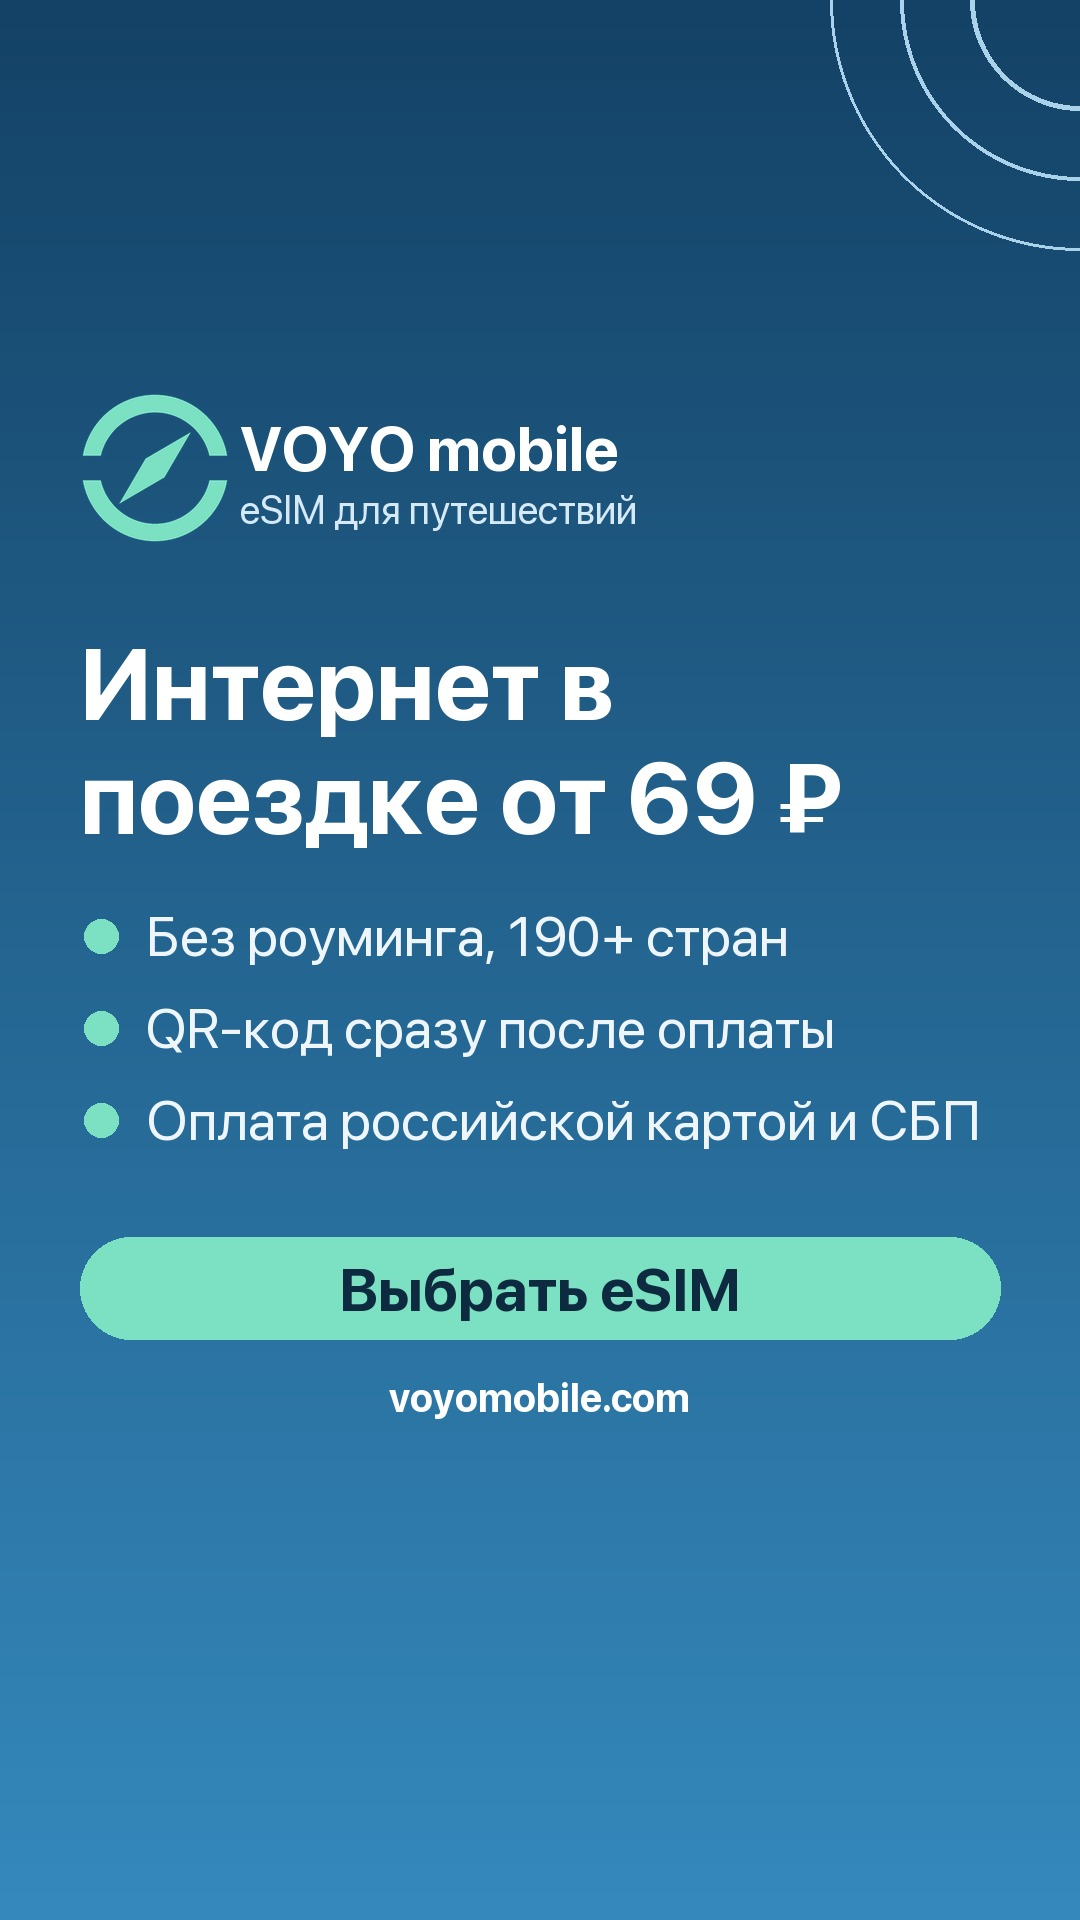
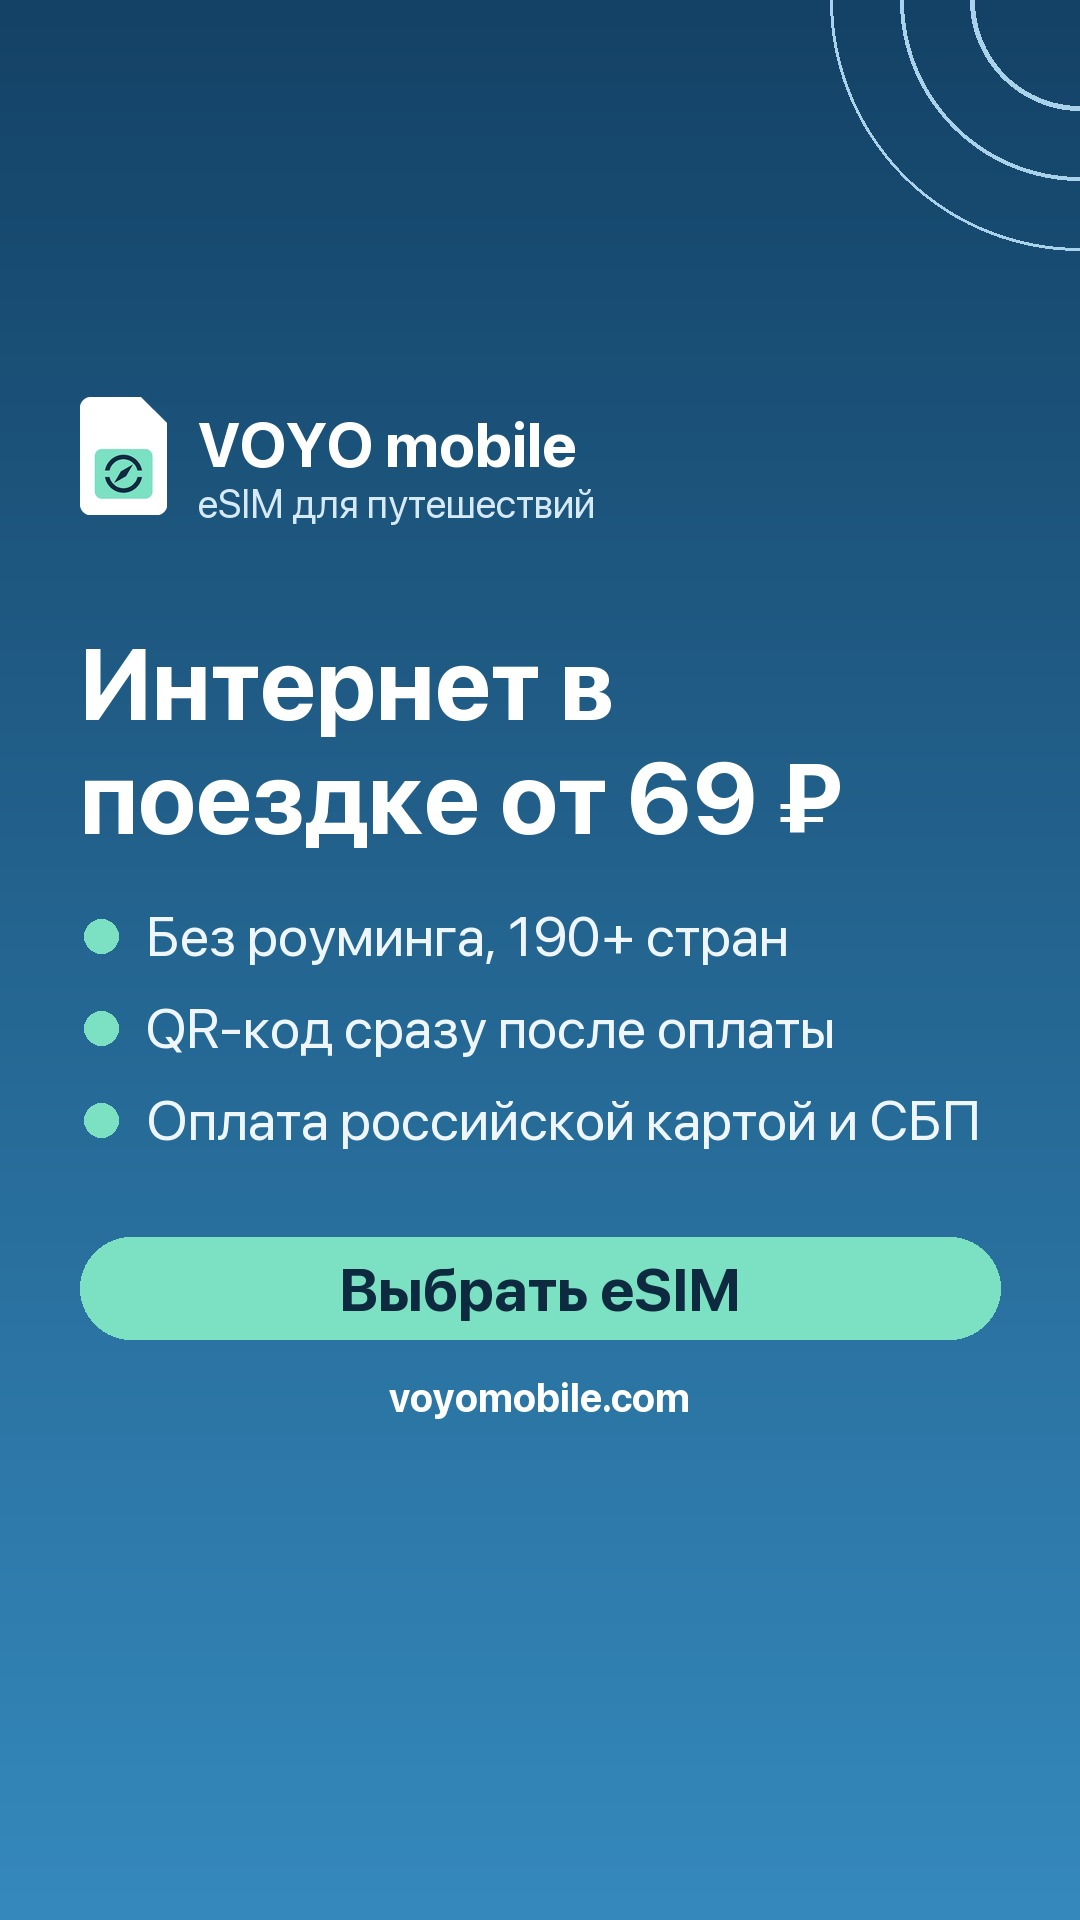
Креативы eSIM: значок SIM-карты с компасом VOYO на месте чипа

Changed region(s): [[0.0611, 0.1875, 0.5806, 0.2812]]

diff --git a/vscom/tools/esim_creatives.py b/vscom/tools/esim_creatives.py
@@ -46,28 +46,44 @@ def bg(h):
     return im, d
 
 
-def sim_icon(d, x, y, s):
-    """Фирменный компас VOYO (знак из буквы «О», public/favicon.svg) мятным цветом.
-    Рисуется в 4× на прозрачном слое и уменьшается — края гладкие."""
-    S = int(s * 1.25)                      # по высоте как прежний значок SIM
-    k = 4
-    Z = S * k
-    u = Z / 70.0                           # в SVG знак занимает квадрат 15..85
-    P = lambda vx, vy: ((vx - 15) * u, (vy - 15) * u)
-    lay = Image.new("RGBA", (Z, Z), (0, 0, 0, 0))
-    ld = ImageDraw.Draw(lay)
+def compass(ld, cx, cy, R, color):
+    """Фирменный компас VOYO (знак из буквы «О», public/favicon.svg): кольцо
+    с горизонтальными разрывами и стрелка. R — внешний радиус кольца."""
+    u = R / 34.1                           # в SVG внешний радиус 30 + 8,2/2
     r, w = 30 * u, 8.2 * u
-    cx, cy = P(50, 50)
-    ld.ellipse([cx - r - w / 2, cy - r - w / 2, cx + r + w / 2, cy + r + w / 2], fill=MINT)
+    ld.ellipse([cx - R, cy - R, cx + R, cy + R], fill=color)
     ld.ellipse([cx - r + w / 2, cy - r + w / 2, cx + r - w / 2, cy + r - w / 2], fill=(0, 0, 0, 0))
-    # горизонтальные разрывы кольца слева и справа
-    g0, g1 = P(0, 44.4)[1], P(0, 55.6)[1]
-    ld.rectangle([0, g0, P(35, 0)[0], g1], fill=(0, 0, 0, 0))
-    ld.rectangle([P(65, 0)[0], g0, Z, g1], fill=(0, 0, 0, 0))
-    # стрелка
-    ld.polygon([P(66.6, 33.4), P(54.4, 54.4), P(33.4, 66.6), P(45.6, 45.6)], fill=MINT)
-    lay = lay.resize((S, S), Image.LANCZOS)
+    gh = 5.6 * u
+    ld.rectangle([cx - R - 2, cy - gh, cx - 15 * u, cy + gh], fill=(0, 0, 0, 0))
+    ld.rectangle([cx + 15 * u, cy - gh, cx + R + 2, cy + gh], fill=(0, 0, 0, 0))
+    P = lambda vx, vy: (cx + (vx - 50) * u, cy + (vy - 50) * u)
+    ld.polygon([P(66.6, 33.4), P(54.4, 54.4), P(33.4, 66.6), P(45.6, 45.6)], fill=color)
+
+
+def sim_icon(d, x, y, h):
+    """Значок: белая SIM-карта со срезанным углом, на месте чипа — мятная
+    площадка с компасом VOYO. h — высота карты; рисуем в 4× и уменьшаем."""
+    k = 4
+    H = h * k
+    W_ = int(H * 0.74)
+    lay = Image.new("RGBA", (W_, H), (0, 0, 0, 0))
+    ld = ImageDraw.Draw(lay)
+    rad, cut = H * 0.09, W_ * 0.30
+    # тело карты: скруглённый прямоугольник, правый верхний угол срезан
+    ld.rounded_rectangle([0, 0, W_, H], rad, fill="white")
+    ld.polygon([(W_ - cut, -1), (W_ + 1, -1), (W_ + 1, cut)], fill=(0, 0, 0, 0))
+    # «чип»
+    cw, ch = W_ * 0.66, H * 0.42
+    c0x, c0y = (W_ - cw) / 2, H * 0.44
+    ld.rounded_rectangle([c0x, c0y, c0x + cw, c0y + ch], H * 0.06, fill=MINT)
+    # компас внутри чипа, тёмным — на своём слое, иначе его вырезы
+    # пробивают карту насквозь
+    cl = Image.new("RGBA", lay.size, (0, 0, 0, 0))
+    compass(ImageDraw.Draw(cl), c0x + cw / 2, c0y + ch / 2, ch * 0.38, INK)
+    lay = Image.alpha_composite(lay, cl)
+    lay = lay.resize((W_ // k, h), Image.LANCZOS)
     d._image.paste(lay, (int(x), int(y)), lay)
+    return W_ // k
 
 
 def pill(d, x, y, text, f, bg_, fg, pad=28, full_w=None):
@@ -89,9 +105,9 @@ VARIANTS = {
 
 def feed(key, v):
     im, d = bg(W)
-    sim_icon(d, 80, 80, 90)
-    d.text((200, 92), "VOYO mobile", font=font(True, 52), fill="white")
-    d.text((200, 152), "eSIM для путешествий", font=font(False, 34), fill="#D6E9F7")
+    sim_icon(d, 80, 86, 88)
+    d.text((172, 88), "VOYO mobile", font=font(True, 52), fill="white")
+    d.text((172, 146), "eSIM для путешествий", font=font(False, 34), fill="#D6E9F7")
     y = 300
     fh = font(True, 86)
     for ln in wrap(d, v["head"], fh, W - 160):
@@ -113,9 +129,9 @@ def story(key, v):
     fh, fb = font(True, 100), font(False, 56)
 
     def block(y, draw):
-        if draw: sim_icon(d, 80, y, 120)
-        if draw: d.text((240, y + 18), "VOYO mobile", font=font(True, 62), fill="white")
-        if draw: d.text((240, y + 92), "eSIM для путешествий", font=font(False, 40), fill="#D6E9F7")
+        if draw: sim_icon(d, 80, y + 4, 118)
+        if draw: d.text((198, y + 14), "VOYO mobile", font=font(True, 62), fill="white")
+        if draw: d.text((198, y + 86), "eSIM для путешествий", font=font(False, 40), fill="#D6E9F7")
         y += 230
         for ln in wrap(d, v["head"], fh, W - 160):
             if draw: d.text((80, y), ln, font=fh, fill="white")
